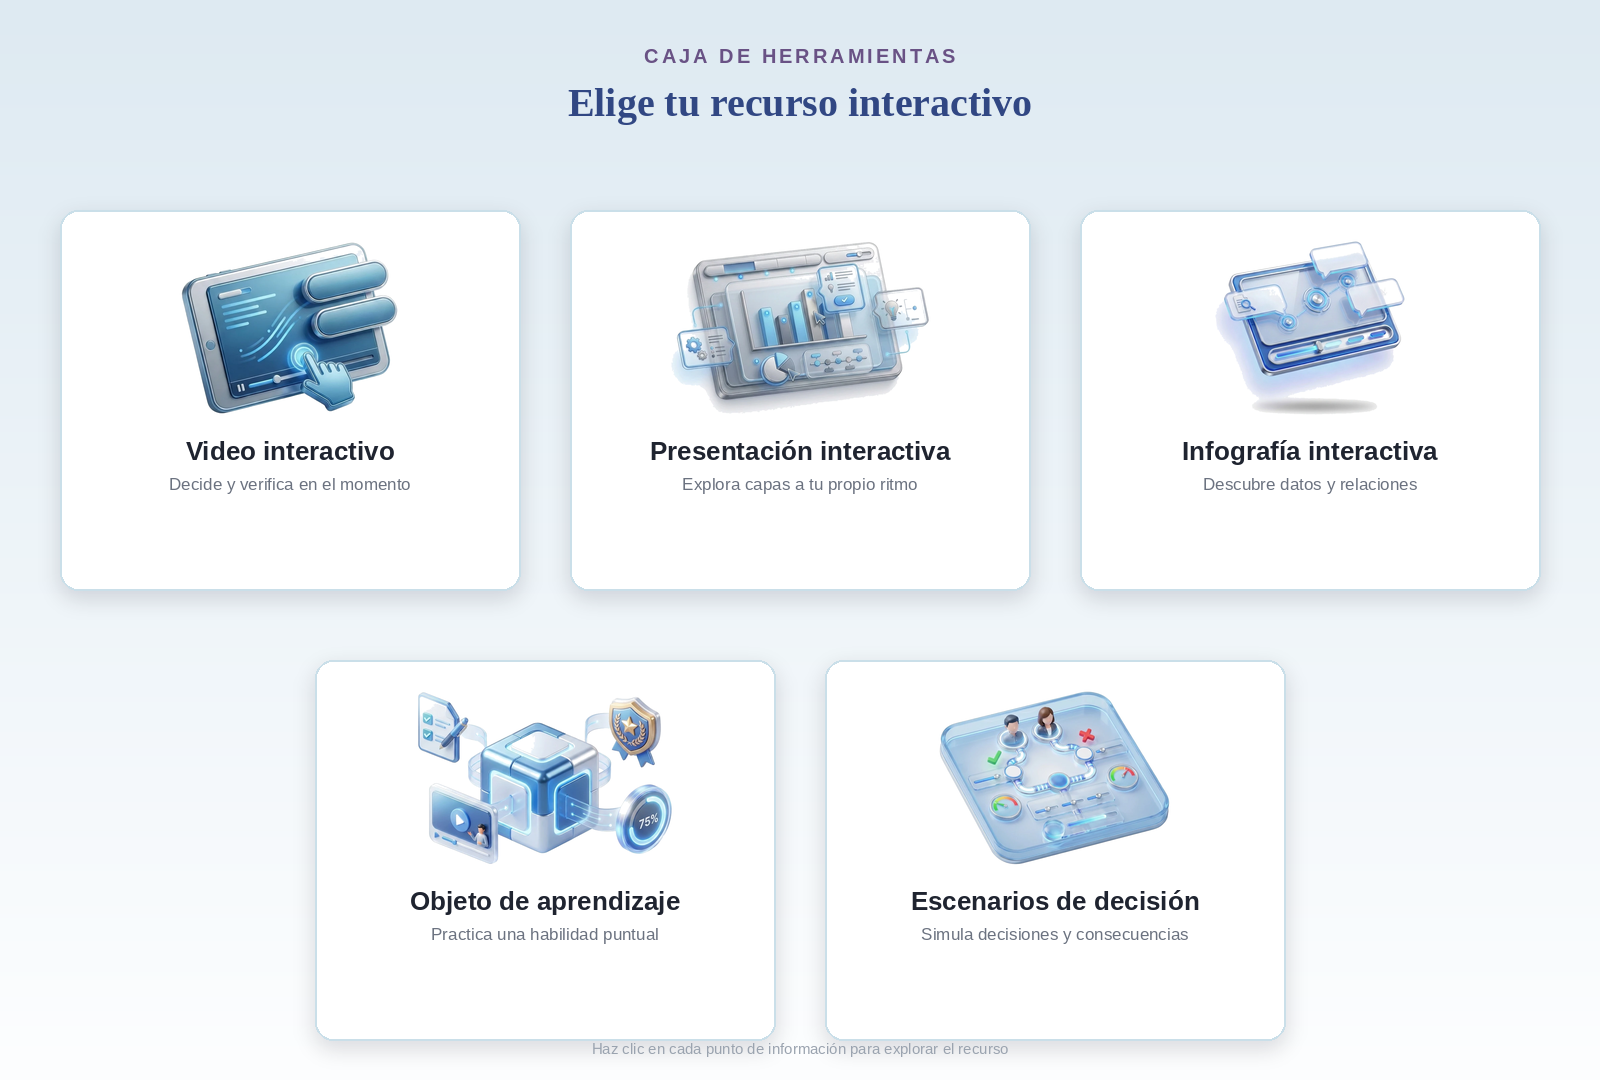
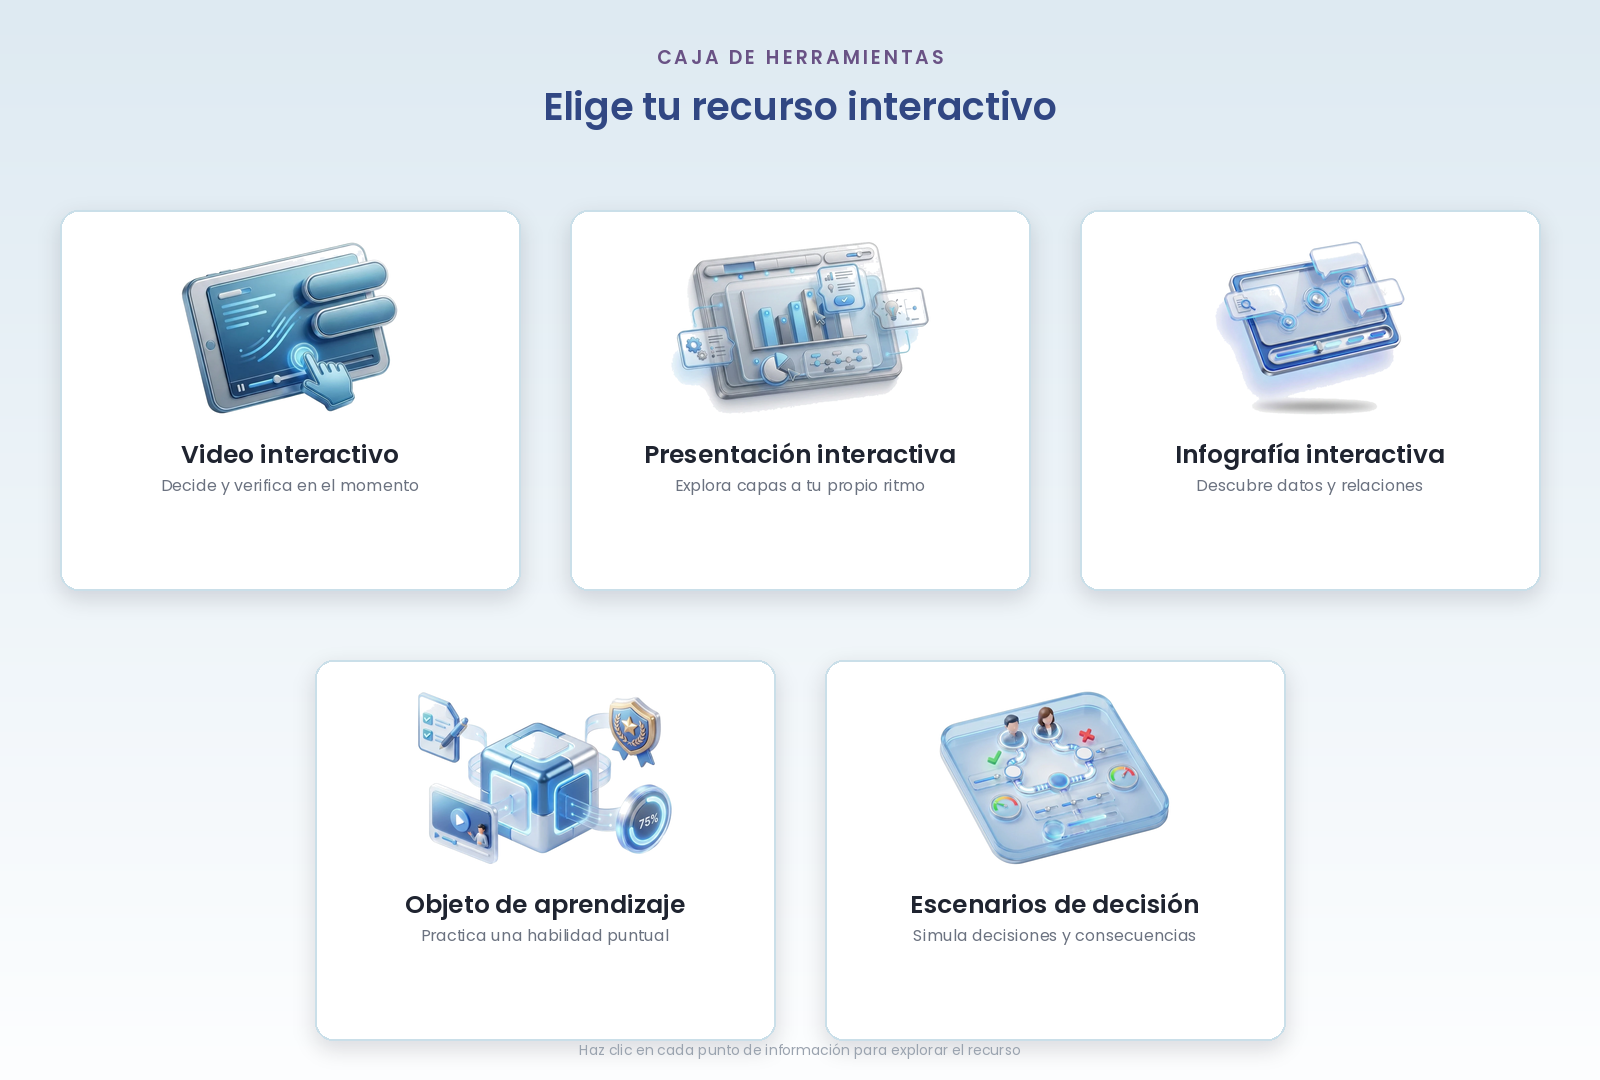
Switch tablero de recursos interactivos to Poppins typeface
Applies Poppins across the page copy (via Google Fonts) and the
baked-in board title, card titles, and captions.

Claude-Session: https://claude.ai/code/session_01XU1vwYxuC6CXtZG2tyMSYD

diff --git a/tablero-recursos-interactivos.html b/tablero-recursos-interactivos.html
@@ -4,10 +4,13 @@
 <meta charset="UTF-8" />
 <meta name="viewport" content="width=device-width, initial-scale=1.0"/>
 <title>Caja de herramientas: recursos interactivos</title>
+<link rel="preconnect" href="https://fonts.googleapis.com">
+<link rel="preconnect" href="https://fonts.gstatic.com" crossorigin>
+<link href="https://fonts.googleapis.com/css2?family=Poppins:wght@400;500;600;700&display=swap" rel="stylesheet">
 <style>
   * { box-sizing: border-box; margin: 0; padding: 0; }
   body {
-    font-family: 'Segoe UI', Arial, sans-serif;
+    font-family: 'Poppins', 'Segoe UI', Arial, sans-serif;
     background: #f4f4f0;
     color: #1a1a2e;
     padding: 24px 16px;
